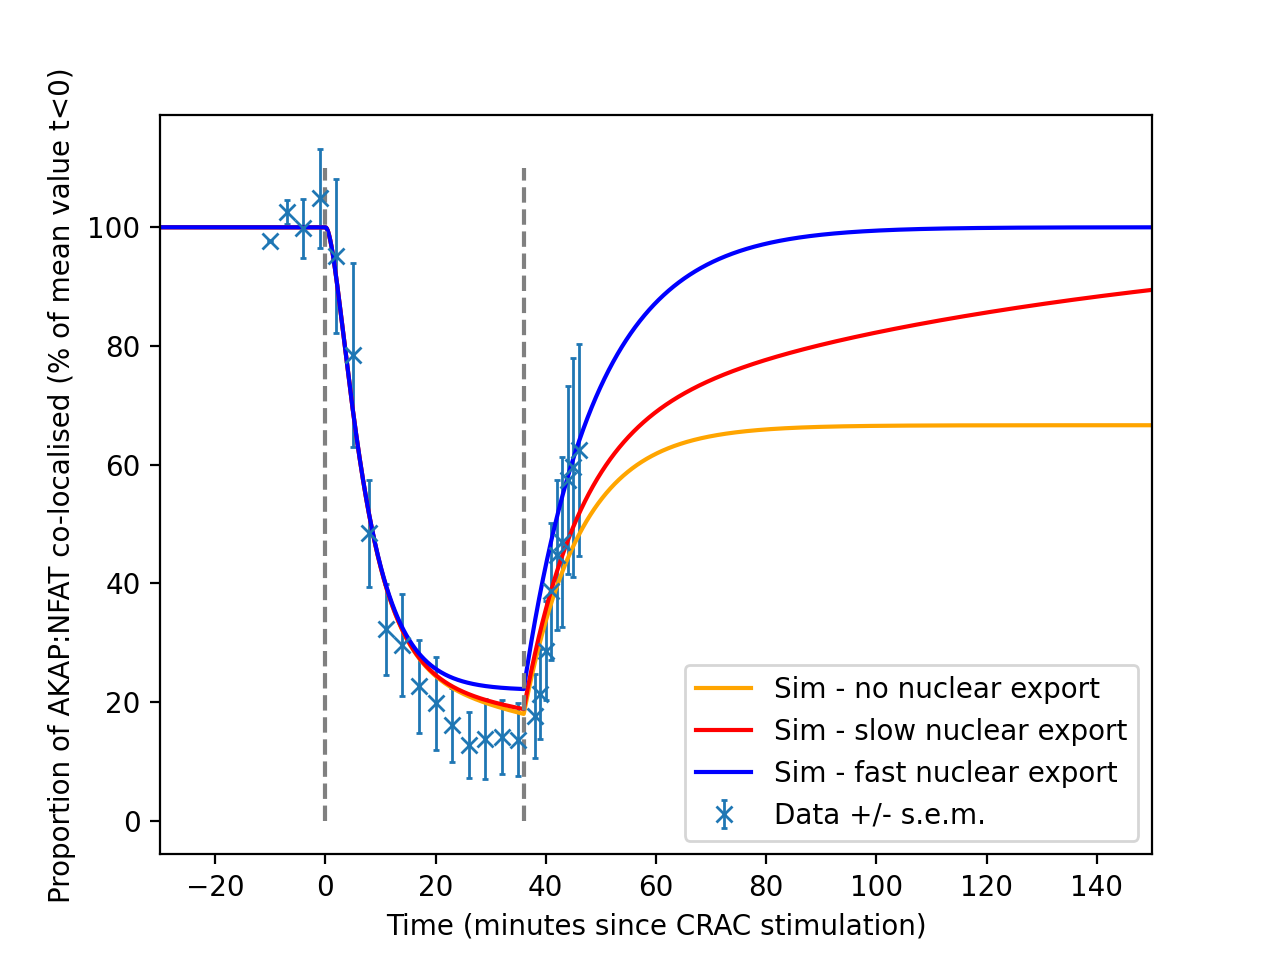
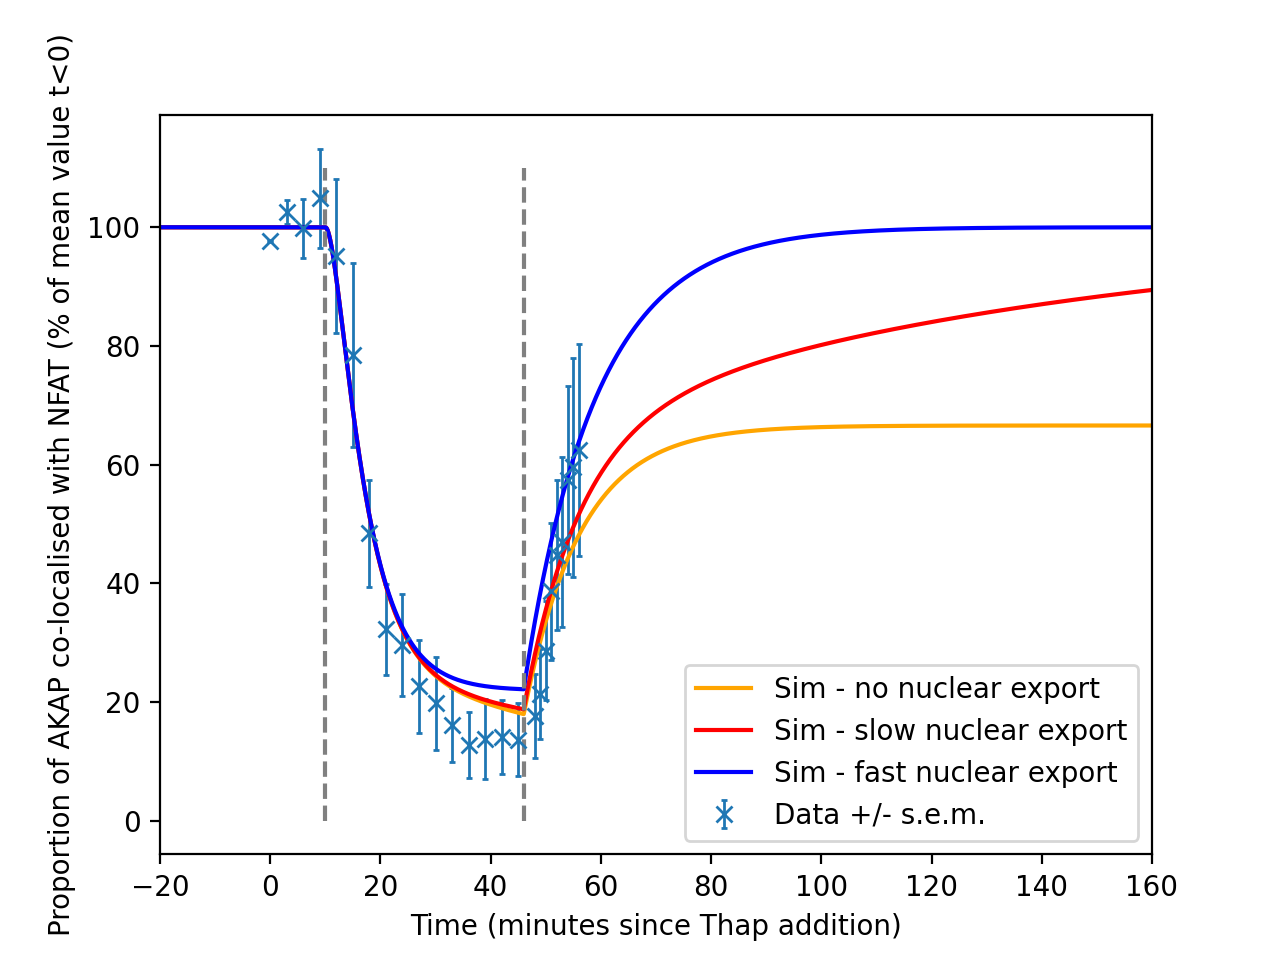
more accurate axis label

Changed region(s): [[0.25, 0.9062, 0.9375, 1.0], [0.0312, 0.0312, 0.0625, 0.9688], [0.125, 0.9062, 0.2188, 0.9375]]

diff --git a/plot_examples_with_varying_nuclear_export.py b/plot_examples_with_varying_nuclear_export.py
@@ -197,7 +197,7 @@ plt.show()
 
 plt.figure()
 plt.xlabel('Time (minutes since Thap addition)')
-plt.ylabel('Proportion of AKAP:NFAT co-localised (% of mean value t<0)')
+plt.ylabel('Proportion of AKAP co-localised with NFAT (% of mean value t<0)')
 plt.errorbar(akap_nfatp_times+10, 100*akap_nfatp_means,
              yerr=100*akap_nfatp_sems, capsize=1, lw=1, ls='', marker='x')
 plt.plot(times+10, prop_akap_bound_nfat_no_export, color='orange')
